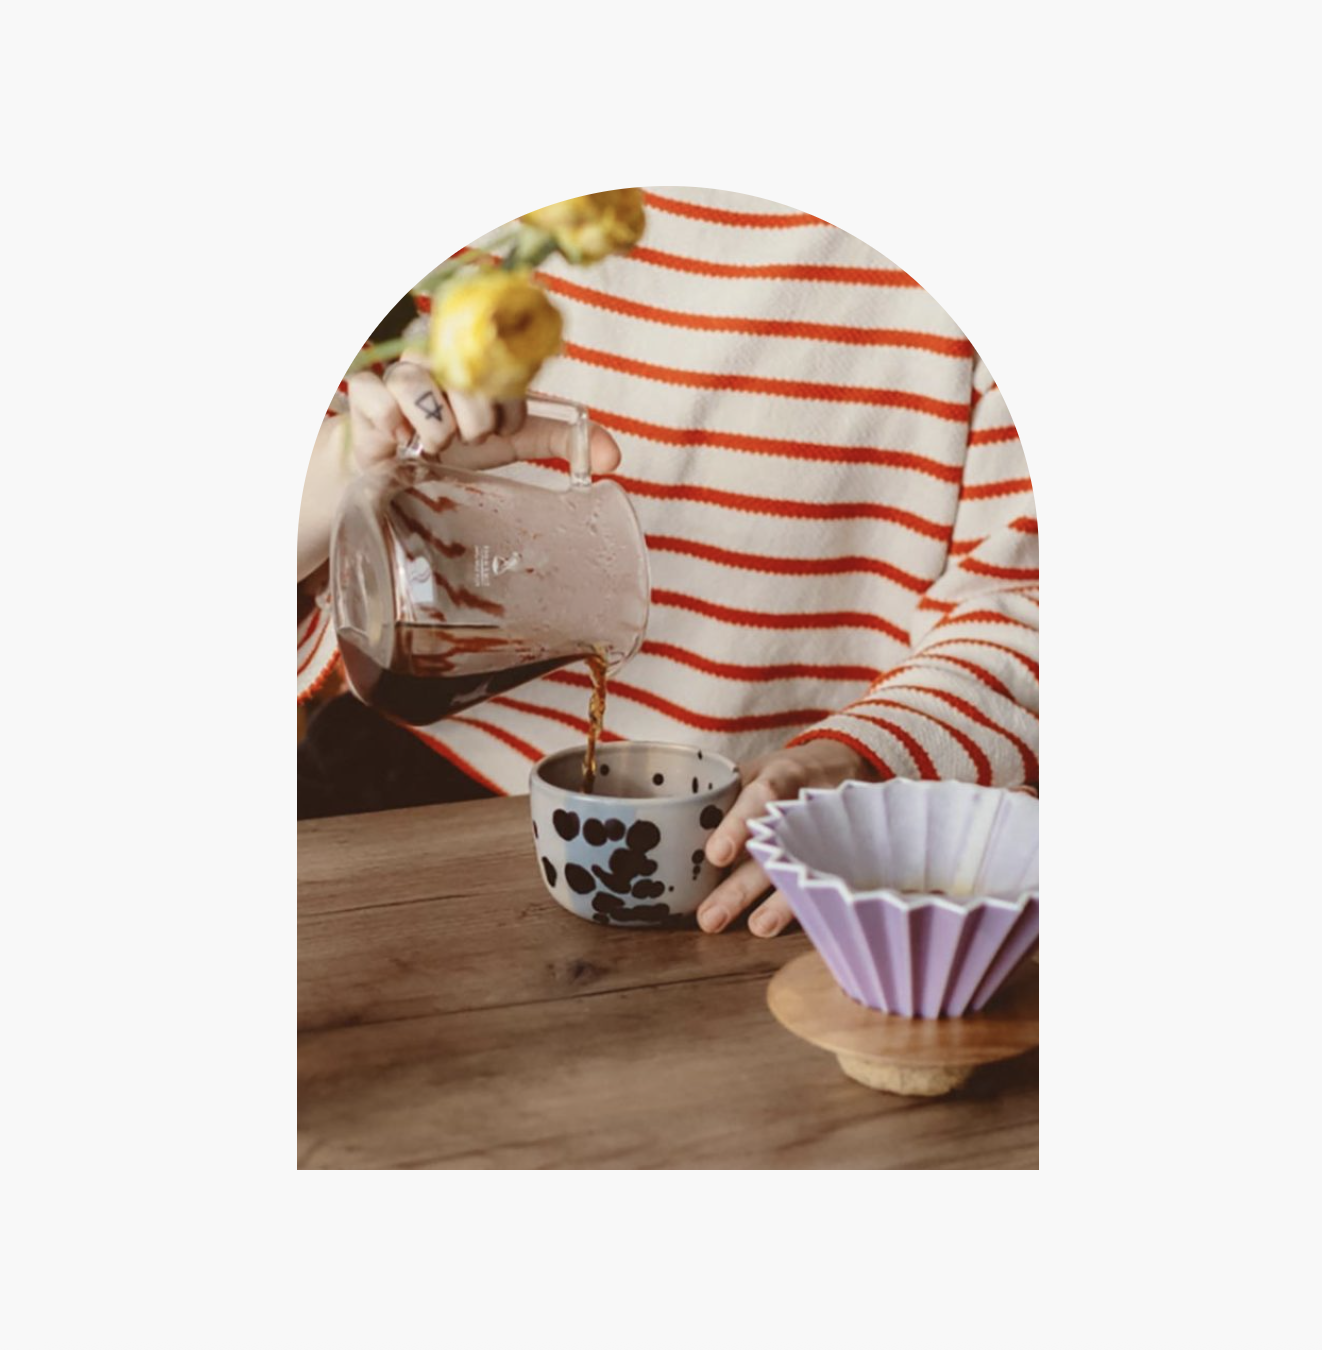
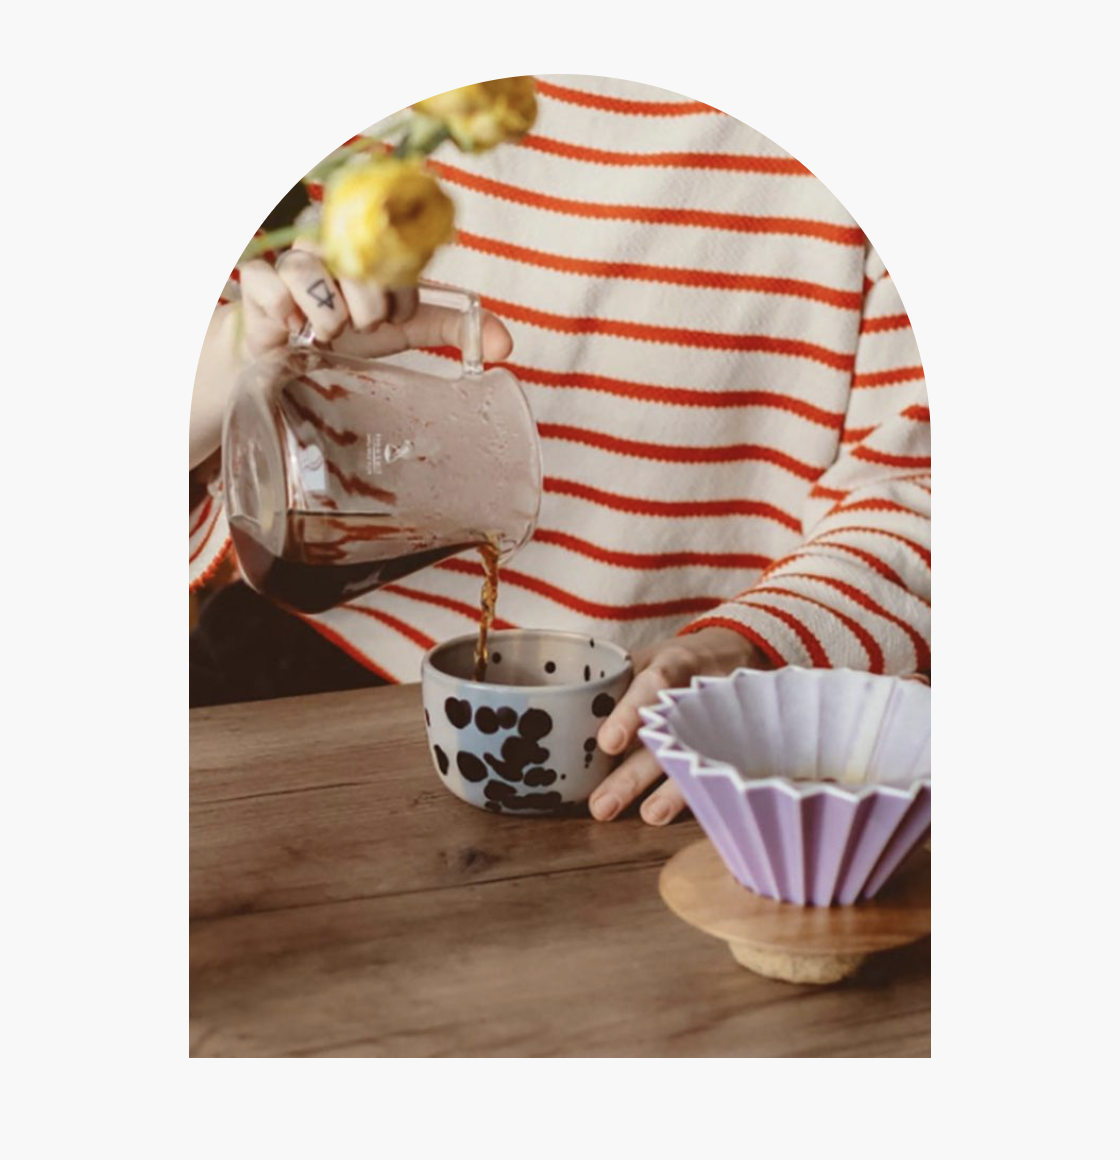
Tea-02

diff --git a/css/standard.css b/css/standard.css
@@ -131,6 +131,7 @@ button{
     padding: 5px;
     border: 2px solid white;
     background-color: transparent;
+    /* muốn nút button thành hình tròn dùng border radius */
 }
 
 .form-group{
@@ -169,7 +170,42 @@ button{
     /* space-between: giãn đều, 3 ông thì có 2 ông đứng đầu cuối dòng, space-around: giãn đều nhưng có khoảng trống đầu cuối dòng*/
     align-items: center ; /* căn theo chiều còn lại */
     align-self: flex-start; /* ngoại lệ 1 trường hợp riêng biệt xếp đầu dòng, flex-end */
+    
+    /* display: flex; tự nó đã làm gì?
+    Khi bạn chỉ viết display: flex;, container trở thành flex container.
+    Mặc định:
+    flex-direction: row → các phần tử con xếp hàng ngang.
+    justify-content: flex-start → các phần tử con cúi về bên trái theo chiều ngang.
+    align-items: stretch → các phần tử con giãn cao bằng nhau theo chiều dọc (chiều cao container).
+    Nghĩa là ngay cả khi không viết justify-content hay align-items, vẫn có giá trị mặc định.*/
 }
+
+.display grid{
+    display: grid;
+    grid-template-columns: 1fr 1fr; /* 2 cột bằng nhau */
+    grid-template-rows: 1fr 1fr;   /* 2 hàng bằng nhau */
+    gap: 10px;                     /* khoảng cách giữa các ô */
+    /* 4 ảnh sẽ xếp thành 2x2, rất cân đối 
+    grid-template-columns: 1fr 1fr; 2 cột, mỗi cột bằng nhau.
+    grid-template-columns: 2fr 1fr; cột 1 gấp đôi cột 2.*/
+}
+
+.flex{
+    flex: 2; /* to gấp đôi */
+    flex: 1; /* nhỏ bằng 1 */
+    /* flex cùng = 1 thì chia đều chiều rộng = nhau */
+    }
+    /* Container có tổng 2 + 1 = 3 phần
+    big có flex = 2, chiếm 2/3 chiều rộng
+    small có fles = 1, chiếm 1/3 chiều rộng */
+
+
+.small img{
+    aspect-ratio: 1/1;  /* khung vuông */
+    object-fit: cover; /* ảnh sẽ phóng to, cắt bớt để lấp đầy khung (không bị méo)*/
+    object-position: center; /* mặc định, chủ thể ảnh nằm chính giữa sau khi cắt */
+}
+
 
 .position{
     position: static; /* căn theo mặc định, ko dùng đc width, height */
@@ -177,6 +213,7 @@ button{
     position: absolute; /* căn theo thẻ cha chứa nó có thuộc tính position (bất kể là relative hay absolute */
     position: fixed; /* để chốt cố định 1 đoạn, ví dụ thanh header luôn luôn đc hiển thị khi kéo chuột, đặt header: top=0; footer: bottom=0; để 2 thanh luôn luôn sát trình duyệt  */
 }
+
 /* tiền tố before, after
 ::before{
     content: 

diff --git a/Tea-02.html b/Tea-02.html
@@ -69,16 +69,48 @@
         </section>
 
         <section class="section image">
-            <div class="container">
-                
-                <img src="images/Tea-02/image-01.png" width="500">
-                <img src="images/Tea-02/image-02.png" width="200">
-                <img src="images/Tea-02/image-03.png" width="200">
-                <img src="images/Tea-02/image-04.png" width="200">
-                <img src="images/Tea-02/image-05.png" width="200">
+            <div class="big-image">
+                <img src="images/Tea-02/image-01.png">
+            </div>
+
+            <div class="small-group">
+                <img src="images/Tea-02/image-02.png">
+                <img src="images/Tea-02/image-03.png">
+                <img src="images/Tea-02/image-04.png">
+                <img src="images/Tea-02/image-05.png">
+            </div>    
+        </section>
+
+        <section class="section paragraph-01">
+            <div class="paragraph-01-01">
+                <p>since 1982</p>
+                <h1>PEONY TEAS</h1>
+                <p>Lorem ipsum dolor sit amet consectetur, adipisicing elit. Nemo qui atque ipsam quibusdam sunt suscipit, excepturi, sapiente laboriosam nihil id obcaecati molestias dicta asperiores nobis minima mollitia officia ea repellat voluptatem dolore corporis odio, autem facilis. At quod iusto beatae. A quaerat odit sequi ipsa?</p>
+            </div>
+
+            <div class="paragraph-01-02">
+                <img src="images/Tea-02/p01-2.png">
+            </div>
+        </section>
+        
+        <section class="section paragraph-02">
+            <div class="paragraph-02-01">
+                <img src="images/Tea-02/p02-1.png">
+            </div>
+
+            <div class="paragraph-02-02">
+                <img src="images/Tea-02/p02-2.png">
             </div>
         </section>
 
+        <section class="section galerry">
+            <div class="galerry-01">
+                <h1>OUR TEAS GALLERY</h1>
+                <p>Lorem ipsum dolor sit amet consectetur adipisicing elit. Expedita impedit adipisci corporis dicta repellendus quam error eligendi rerum id? Voluptatum provident neque esse voluptate eaque!</p>
+            </div>
+
+            
+        </section>
     </main>
     
 </body>

diff --git a/css/Tea-02.css b/css/Tea-02.css
@@ -88,13 +88,9 @@ img{
 .nav-00{
     padding: 0px 0px 90px 0px;
 }
-.nav-01{
+.nav-01, .nav-02{
     width: 50%;
 }
-.nav-02{
-    width: 50%;
-}
-
 
 .nav ul li{ /* viết theo gia phả */
     float: left;
@@ -115,7 +111,7 @@ img{
     padding: 0px 0px 90px 0px;
 }
 .collection-01{
-    text-align: center;
+    text-align: center; /*???*/
 }
 .collection-02{
     padding-left: 50px;
@@ -123,6 +119,68 @@ img{
 
 .peony-teas{
     text-align: center;
+    padding: 90px 0px 90px 0px;
+}
+
+.image{
+    display: flex;
+    gap: 10px; /* khoảng cách giữa 2 bên */
+    padding: 0px 0px 90px 0px;
+}
+
+/* Ảnh to bên trái */
+.big-image{
+    flex: 1;
+}
+.big-image img {
+    width: 100%;
+    height: 100%;
+    object-fit: cover; /* cắt cho vừa */
+    border-radius: 5px;
+}
+
+/* Nhóm ảnh nhỏ bên phải */
+.small-group {
+    flex: 1;
+    display: grid; /* dùng grid để căn đều */      
+    grid-template-columns: 1fr 1fr; /* 2 cột */
+    grid-template-rows: 1fr 1fr;    /* 2 hàng */
+    gap: 10px;
+}
+
+.small-group img {
+    width: 100%;
+    height: 100%;
+    object-fit: cover; /* crop ảnh cho đầy khung */
+    border-radius: 5px;
+    aspect-ratio: 1/1; /* khung vuông */
+}
+
+.paragraph-01{
+    padding: 0px 0px 90px 0px;
+}
+.paragraph-01-01{
+    width: 50%;
+    text-align: center;
+}
+.paragraph-01-02{
+    width: 50%;
+    border-radius: 5px;
+}
+
+.paragraph-02{
+    flex: 1;
+    display: grid; /* dùng grid để căn đều */      
+    grid-template-columns: 1fr 1fr; /* 2 cột */
+    gap: 10px;
+    padding: 0px 0px 90px 0px;
+}
+.paragraph-02-01 img, .paragraph-02-02 img{
+    width: 100%;
+    height: 100%;
+    object-fit: cover; /* crop ảnh cho đầy khung */
+    border-radius: 5px;
+    aspect-ratio: 1/1; /* khung vuông */
 }
 
 

diff --git a/Tea-02nhap.html b/Tea-02nhap.html
@@ -1,0 +1,55 @@
+<!DOCTYPE html>
+<html lang="en">
+<head>
+  <meta charset="UTF-8">
+  <meta name="viewport" content="width=device-width, initial-scale=1.0">
+  <title>Document</title>
+  <style>
+    .container {
+      display: flex;
+      gap: 10px; /* khoảng cách giữa 2 bên */
+    }
+    /* Ảnh to bên trái */
+    .big {
+      flex: 1;
+    }
+    .big img {
+      width: 100%;
+      height: 100%;
+      object-fit: cover; /* cắt cho vừa */
+      border-radius: 5px;
+    }
+
+    /* Nhóm ảnh nhỏ bên phải */
+  .small-group {
+  flex: 1;
+  display: grid;              /* dùng grid để căn đều */
+  grid-template-columns: 1fr 1fr; /* 2 cột */
+  grid-template-rows: 1fr 1fr;    /* 2 hàng */
+  gap: 10px;
+}
+
+.small-group img {
+  width: 100%;
+  height: 100%;
+  object-fit: cover;  /* crop ảnh cho đầy khung */
+  border-radius: 5px;
+  aspect-ratio: 1/1;  /* khung vuông */
+}
+  </style>
+</head>
+<body>
+  <div class="container">
+    <div class="big">
+      <img src="images/Tea-02/image-01.png">
+    </div>
+
+    <div class="small-group">
+      <img src="images/Tea-02/image-02.png">
+      <img src="images/Tea-02/image-03.png">
+      <img src="images/Tea-02/image-04.png">
+      <img src="images/Tea-02/image-05.png">
+    </div>
+  </div>
+</body>
+</html>
